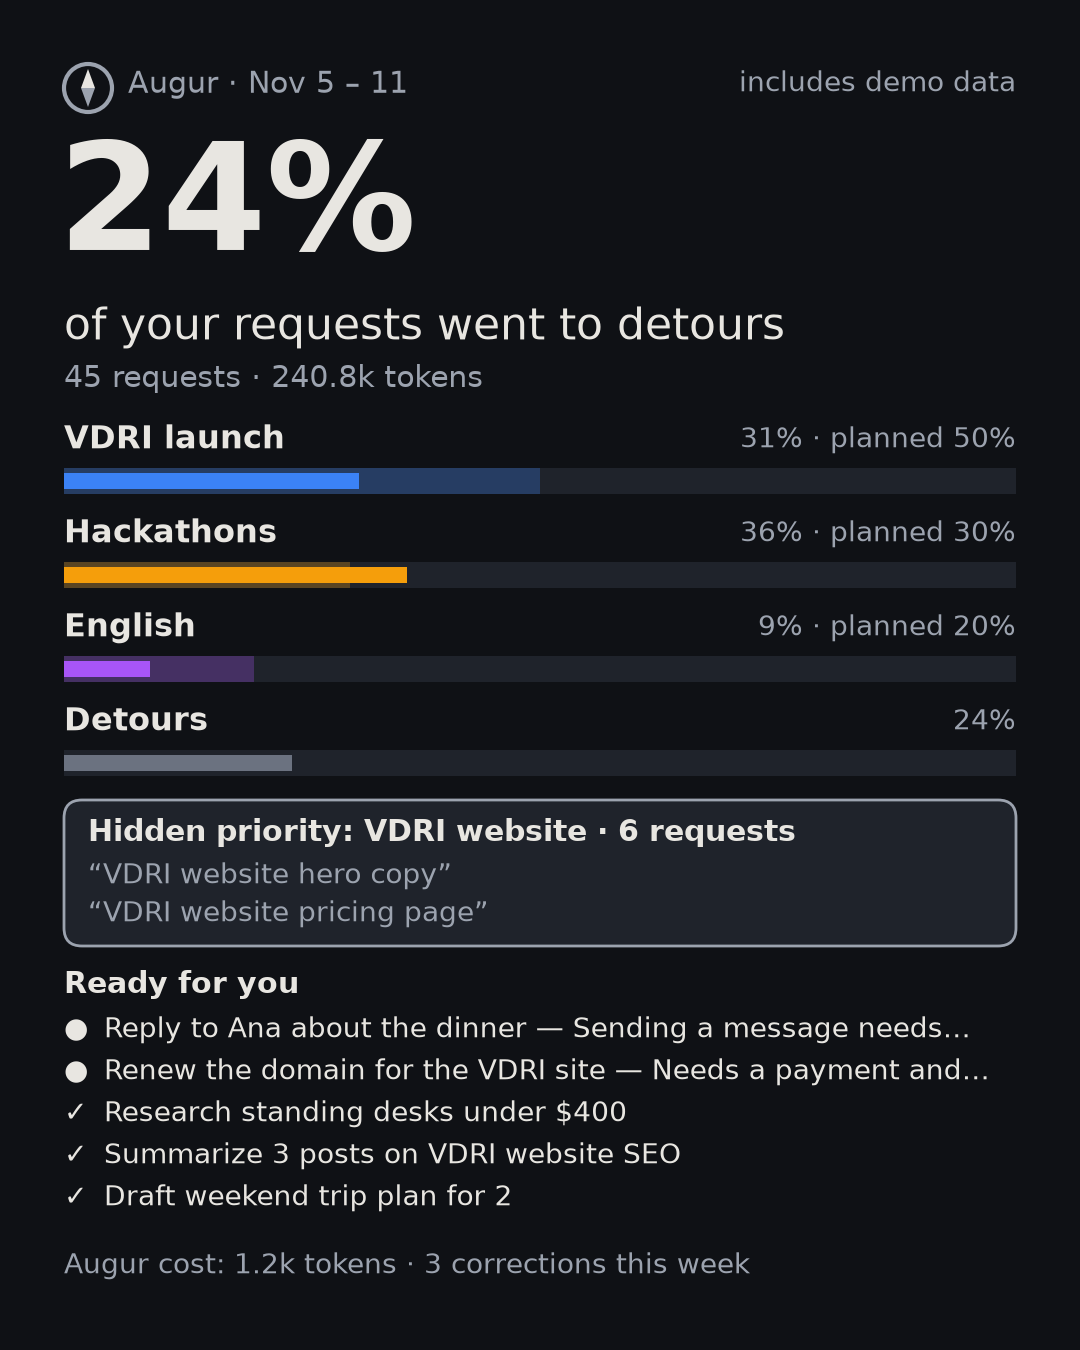
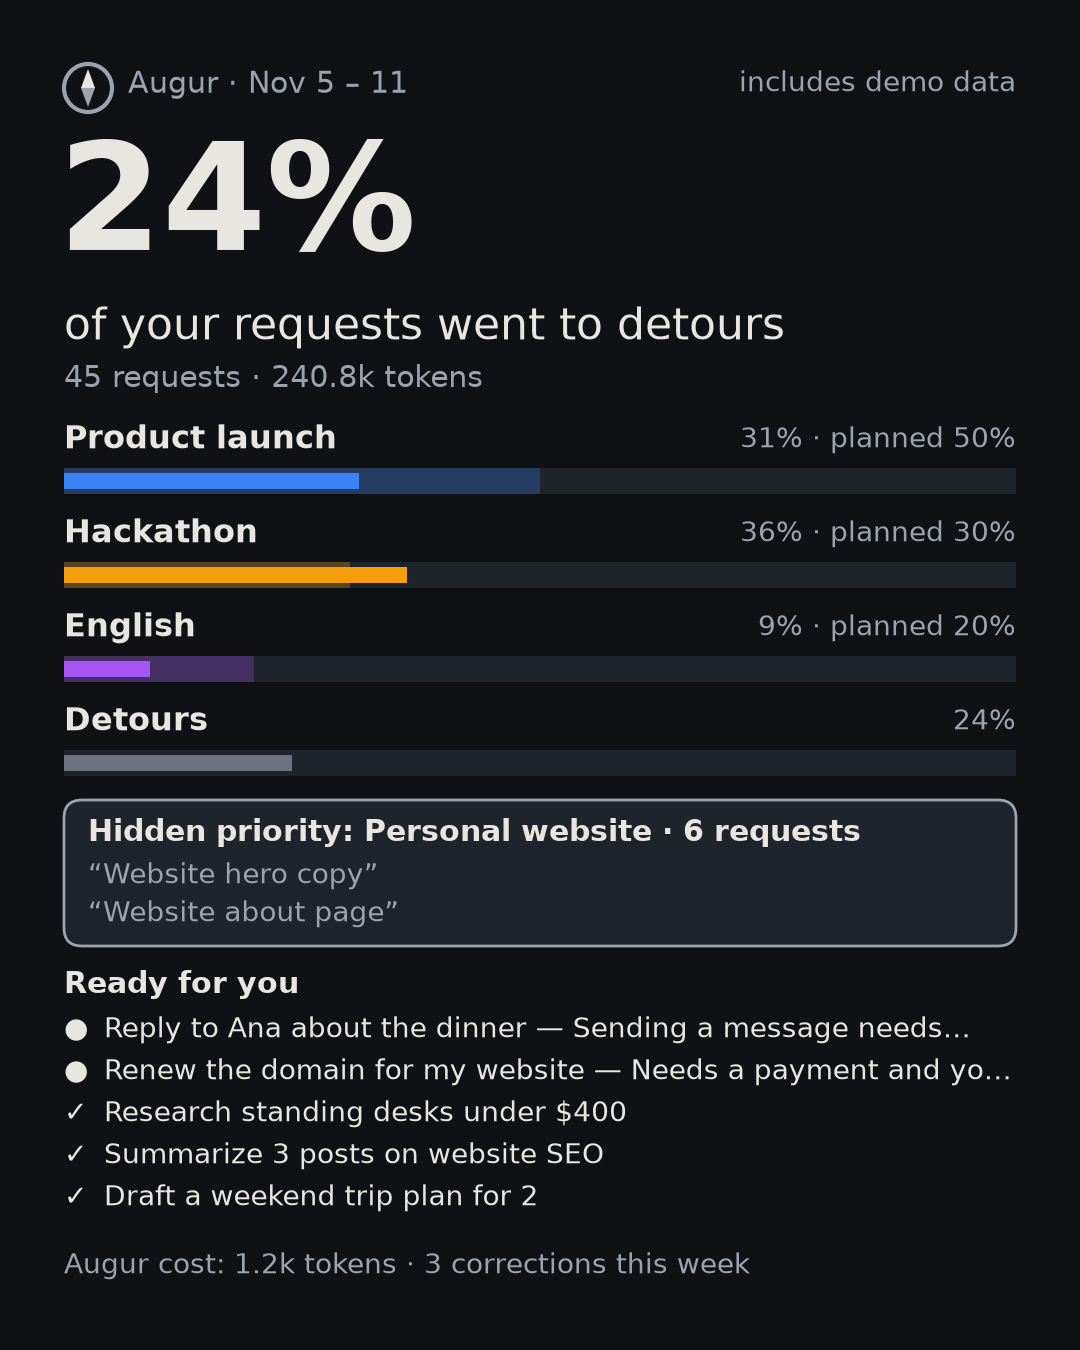
Use generic demo names (Product launch, Hackathon, English, Personal website)
Claude-Session: https://claude.ai/code/session_01Uun7kfw5yCHjWELwmmLRdR

diff --git a/tests/test_store_commands.py b/tests/test_store_commands.py
@@ -58,12 +58,12 @@ def test_secrets_are_redacted_before_storage(make_app):
 
 
 def test_parse_goals_variants():
-    assert [g["name"] for g in cmd_mod.parse_goals("launching VDRI, hackathons, English")] == [
-        "Launching VDRI", "Hackathons", "English"]
-    assert [g["name"] for g in cmd_mod.parse_goals("VDRI launch, hackathons and English")] == [
-        "VDRI launch", "Hackathons", "English"]
-    goals = cmd_mod.parse_goals('"VDRI launch: ship the beta" "Hackathons" "English"')
-    assert goals[0]["name"] == "VDRI launch" and "ship the beta" in goals[0]["description"]
+    assert [g["name"] for g in cmd_mod.parse_goals("launching the product, hackathon, Spanish")] == [
+        "Launching the product", "Hackathon", "Spanish"]
+    assert [g["name"] for g in cmd_mod.parse_goals("Product launch, hackathons and English")] == [
+        "Product launch", "Hackathons", "English"]
+    goals = cmd_mod.parse_goals('"Product launch: ship the beta" "Hackathon" "English"')
+    assert goals[0]["name"] == "Product launch" and "ship the beta" in goals[0]["description"]
     assert cmd_mod.parse_goals("just one big thing") is None
     assert cmd_mod.parse_split("a, b, c 50/30/20") == ("a, b, c", [50, 30, 20])
     assert not cmd_mod.valid_split([50, 30, 30])
@@ -71,7 +71,7 @@ def test_parse_goals_variants():
 
 def test_goals_inline_with_split(make_app):
     app = make_app(goals=False)
-    out = Commands(app).augur('goals "VDRI launch" "Hackathons" "English" 50/30/20')
+    out = Commands(app).augur('goals "Product launch" "Hackathon" "English" 50/30/20')
     assert "Goals saved" in out
     assert [g["planned_pct"] for g in app.store.goals()] == [50, 30, 20]
     assert app.ctx.asked == []
@@ -80,25 +80,25 @@ def test_goals_inline_with_split(make_app):
 def test_goals_ask_split_with_buttons(make_app):
     app = make_app(goals=False)
     app.ctx.choices = ["40/40/20"]
-    out = Commands(app).augur("goals launching VDRI, hackathons, English")
+    out = Commands(app).augur("goals launching the product, hackathon, Spanish")
     assert "Goals saved" in out
     question, choices = app.ctx.asked[0]
-    assert "Launching VDRI" in question and len(choices) == 4
+    assert "Launching the product" in question and len(choices) == 4
     assert [g["planned_pct"] for g in app.store.goals()] == [40, 40, 20]
 
 
 def test_goals_cancel_or_no_buttons_saves_nothing(make_app):
     app = make_app(goals=False)
-    out = Commands(app).augur("goals launching VDRI, hackathons, English")
+    out = Commands(app).augur("goals launching the product, hackathon, Spanish")
     assert "not saved" in out and not app.store.has_goals()
 
 
 def test_goals_free_text_uses_model_extraction(make_app):
-    extracted = {"goals": [{"name": "VDRI Launch", "description": "launch"},
+    extracted = {"goals": [{"name": "Product Launch", "description": "launch"},
                            {"name": "Hackathon", "description": "plugin"},
                            {"name": "English", "description": "practice"}]}
     app = make_app(lambda kw: extracted, goals=False)
-    out = Commands(app).augur("goals this week I mostly want to launch VDRI then the hackathon plus english 50/30/20")
+    out = Commands(app).augur("goals this week I mostly want to launch the product then the hackathon plus spanish 50/30/20")
     assert "Goals saved" in out
     assert app.ctx.llm.calls[-1]["task"] == "augur_classifier"
 
@@ -113,7 +113,7 @@ def test_panel_onboarding_then_panel(make_app):
     assert "/augur goals" in Commands(app).augur("")
     demo.load(app.store, app.clock())
     text = Commands(app).augur("", platform="telegram")
-    assert "VDRI launch" in text and "24%" in text and "\x1b[" not in text
+    assert "Product launch" in text and "24%" in text and "\x1b[" not in text
     block = text.split("```")[1].strip().splitlines()
     assert len(block) == 4 and max(len(line) for line in block) <= 36  # fits a phone in monospace
     assert "Hidden priority" in text
@@ -129,17 +129,17 @@ def test_fix_records_correction_used_in_next_prompt(make_app):
     turn(app, "polish the docs page for my Hermes plugin", turn_id="a")
     app.ctx.choices = ["2"]
     out = Commands(app).augur("fix", session_id="s1")
-    assert "Hackathons" in out
+    assert "Hackathon" in out
     assert app.store.get_turn(1)["goal"] == 2
     turn(app, "polish the README for my Hermes plugin", turn_id="b")
     prompt = app.ctx.llm.calls[-1]["input"][0]["text"]
-    assert '"Tune Hermes plugin docs" → 2 (Hackathons)' in prompt
+    assert '"Tune Hermes plugin docs" → 2 (Hackathon)' in prompt
 
 
 def test_fix_inline_and_nothing_to_fix(make_app):
     app = make_app(lambda kw: on_goal(1))
     assert "Nothing to fix" in Commands(app).augur("fix")
-    turn(app, "draft the pilot pricing tiers for VDRI")
+    turn(app, "draft the pilot pricing tiers for the launch")
     assert "Detour" in Commands(app).augur("fix detour")
     assert app.store.get_turn(1)["goal"] == 0
 
@@ -158,7 +158,7 @@ def test_pause_and_resume(make_app):
 
 def test_demo_load_and_clear_keeps_real_data(make_app):
     app = make_app(lambda kw: on_goal(1))
-    turn(app, "draft the pilot pricing tiers for VDRI")
+    turn(app, "draft the pilot pricing tiers for the launch")
     out = Commands(app).augur("demo")
     assert "45 requests" in out and "kept" in out
     assert app.ctx.llm.calls.__len__() == 1  # demo made no model call
@@ -219,9 +219,9 @@ def test_status_rpc_and_emit(make_app):
     assert app.rpc_status({}, session_id="s1")["on_goals_pct"] is None  # nothing counted yet: no "0%"
     turn(app, "write the pytest tests for the classifier")
     status = app.rpc_status({"session_id": "s1"})
-    assert status["current_goal"] == "Hackathons" and status["on_goals_pct"] == 100
+    assert status["current_goal"] == "Hackathon" and status["on_goals_pct"] == 100
     sid, event, payload = app.ctx.emitted[-1]
-    assert (sid, event) == ("s1", "status.changed") and payload["current_goal"] == "Hackathons"
+    assert (sid, event) == ("s1", "status.changed") and payload["current_goal"] == "Hackathon"
     import json
 
     json.dumps(status)  # JSON-safe for the RPC wire

diff --git a/demo.py b/demo.py
@@ -1,6 +1,6 @@
 """A fixed, deterministic sample week. No model calls; every row is marked ``demo``.
 
-Shapes match the README: 45 requests (31% VDRI launch, 36% Hackathons,
+Shapes match the README: 45 requests (31% Product launch, 36% Hackathon,
 9% English, 24% detours), 5 parked items, 3 corrections, a hidden priority.
 """
 
@@ -12,57 +12,57 @@ from . import insight
 from .store import Store, iso
 
 GOALS = [
-    {"name": "VDRI launch", "description": "VDRI launch: pilot customers, pricing and the investor deck", "planned_pct": 50},
-    {"name": "Hackathons", "description": "Hackathons: build and submit the Hermes plugin", "planned_pct": 30},
+    {"name": "Product launch", "description": "Product launch: first 100 users, pricing and the investor deck", "planned_pct": 50},
+    {"name": "Hackathon", "description": "Hackathon: build and submit the Hermes plugin", "planned_pct": 30},
     {"name": "English", "description": "English: daily speaking and writing practice", "planned_pct": 20},
 ]
 
 # (goal, summary, tokens); 0 = detour
 REQUESTS: list[tuple[int, str, int]] = [
-    (1, "Draft pilot pricing tiers", 8200), (2, "Plugin hook signatures", 6400),
-    (1, "Investor deck: market slide", 9100), (0, "VDRI website hero copy", 7300),
-    (2, "Write classifier tests", 11800), (1, "Pilot customer email", 4100),
-    (3, "Fix grammar in my pitch", 2600), (0, "VDRI website color palette", 5200),
+    (1, "Draft launch pricing tiers", 8200), (2, "Plugin hook signatures", 6400),
+    (1, "Investor deck: market slide", 9100), (0, "Website hero copy", 7300),
+    (2, "Write classifier tests", 11800), (1, "Invite email for beta users", 4100),
+    (3, "Fix grammar in my pitch", 2600), (0, "Website color palette", 5200),
     (2, "Debug cron blueprint", 9900), (1, "Competitor pricing table", 7700),
     (2, "README structure", 5300), (0, "Compare standing desks", 3900),
     (1, "Deck: traction slide", 6800), (2, "Telegram buttons test", 4700),
-    (0, "VDRI website footer links", 3100), (1, "Pilot onboarding checklist", 5600),
-    (2, "Precision eval script", 12400), (3, "Practice: pitch out loud", 2200),
+    (0, "Website footer links", 3100), (1, "Onboarding checklist", 5600),
+    (2, "Precision eval script", 12400), (3, "Practice the pitch out loud", 2200),
     (0, "Weekend trip ideas", 2800), (1, "Cap table question", 4300),
-    (2, "PNG report layout", 10300), (0, "VDRI website SEO meta tags", 4400),
-    (1, "Pilot contract template", 7900), (2, "Video script beats", 3800),
+    (2, "PNG report layout", 10300), (0, "Website SEO meta tags", 4400),
+    (1, "Beta terms of service", 7900), (2, "Video script beats", 3800),
     (0, "Recipe for dinner party", 1900), (2, "Catalog YAML fields", 3300),
     (1, "Deck: team slide", 5100), (2, "Guard path tests", 6900),
-    (0, "VDRI website pricing page", 6100), (1, "Follow-up to pilot lead", 3600),
+    (0, "Website about page", 6100), (1, "Follow-up to a beta lead", 3600),
     (2, "Desktop chip API", 5800), (3, "Rewrite email in English", 2400),
     (0, "Fantasy football lineup", 1700), (2, "CI workflow", 4100),
-    (1, "Pilot feedback summary", 5400), (2, "Onboarding copy", 2900),
-    (0, "VDRI website blog post", 8800), (1, "Unit economics sheet", 6600),
+    (1, "Beta feedback summary", 5400), (2, "Onboarding copy", 2900),
+    (0, "Website blog post", 8800), (1, "Unit economics sheet", 6600),
     (2, "Fix flaky test", 4500), (3, "Phrasal verbs quiz", 1800),
     (0, "Laptop battery tips", 1500), (2, "Release notes", 2700),
     (1, "Deck: ask slide", 4900), (2, "Judge feedback pass", 7200),
-    (1, "Pilot kickoff agenda", 3800),
+    (1, "Launch day checklist", 3800),
 ]
 
 PARKED = [
     "Research standing desks under $400",
-    "Summarize 3 posts on VDRI website SEO",
-    "Draft weekend trip plan for 2",
+    "Summarize 3 posts on website SEO",
+    "Draft a weekend trip plan for 2",
     "Reply to Ana about the dinner",
-    "Renew the domain for the VDRI site",
+    "Renew the domain for my website",
 ]
 
 CORRECTIONS = [
-    ("Pilot contract template", 1),
+    ("Beta terms of service", 1),
     ("Video script beats", 2),
     ("Laptop battery tips", 0),
 ]
 
 HIDDEN = {
-    "theme": "VDRI website",
+    "theme": "Personal website",
     "count": 6,
-    "examples": ["VDRI website hero copy", "VDRI website pricing page"],
-    "suggested_goal": "Ship the VDRI website",
+    "examples": ["Website hero copy", "Website about page"],
+    "suggested_goal": "Ship the personal website",
 }
 
 
@@ -78,7 +78,7 @@ def load(store: Store, now: datetime) -> dict[str, int]:
         ts = start + step * i
         store.insert_turn(
             ts=ts, session_id="demo", summary=summary, source="demo", goal=goal, confidence=0.9, tokens=tokens,
-            decision="do_now" if goal == 0 and "website" in summary else None,
+            decision="do_now" if goal == 0 and "Website" in summary else None,
         )
     for i, summary in enumerate(PARKED):
         store.queue_add(summary, start + timedelta(days=1 + i), source="demo")

diff --git a/tests/test_report.py b/tests/test_report.py
@@ -37,7 +37,7 @@ def test_png_is_valid_portrait_and_small(make_app, clock):
 
     assert os.path.getsize(path) < 1_000_000
     assert "24%" in out["caption"] and "1 of 3" in out["caption"]
-    assert "VDRI website" in out["caption"]
+    assert "Personal website" in out["caption"]
 
 
 def test_text_fallback_without_matplotlib(make_app, clock, monkeypatch):
@@ -53,7 +53,7 @@ def test_text_fallback_without_matplotlib(make_app, clock, monkeypatch):
     monkeypatch.setattr(builtins, "__import__", no_mpl)
     out = json.loads(make_handlers(app)["augur_report"]({}))
     assert out["ok"] and "path" not in out
-    assert "detours" in out["text"] and "VDRI launch" in out["text"]
+    assert "detours" in out["text"] and "Product launch" in out["text"]
 
 
 def test_stale_parked_items_are_dropped(make_app, clock):
@@ -67,19 +67,19 @@ def test_stale_parked_items_are_dropped(make_app, clock):
 
 def _detours(app, clock, n):
     for i in range(n):
-        app.store.insert_turn(ts=clock() - timedelta(hours=i + 1), session_id="s", summary=f"VDRI website task {i}",
+        app.store.insert_turn(ts=clock() - timedelta(hours=i + 1), session_id="s", summary=f"Personal website task {i}",
                               goal=0, confidence=0.9)
 
 
 def test_hidden_priority_needs_five(make_app, clock):
-    answer = {"theme": "VDRI website", "count": 5, "examples": ["hero copy", "SEO"], "suggested_goal": "Ship it"}
+    answer = {"theme": "Personal website", "count": 5, "examples": ["hero copy", "SEO"], "suggested_goal": "Ship it"}
     app = make_app(lambda kw: answer)
     _detours(app, clock, 4)
     assert app.build_report()["caption"].count("Hidden priority") == 0
     assert app.ctx.llm.calls == []  # fewer than 5 detours: no model call at all
     _detours(app, clock, 1)
     out = app.build_report()
-    assert "Hidden priority spotted: \"VDRI website\"" in out["caption"]
+    assert "Hidden priority spotted: \"Personal website\"" in out["caption"]
     assert app.ctx.llm.calls[-1]["task"] == "augur_insight"
     calls = len(app.ctx.llm.calls)
     app.build_report()
@@ -104,7 +104,7 @@ def test_metering_normalises_usage():
 
 def test_tokens_land_on_the_turn_and_self_cost_is_recorded(make_app):
     app = make_app()
-    turn(app, "draft the pilot pricing tiers for VDRI", turn_id="t9")
+    turn(app, "draft the pilot pricing tiers for the launch", turn_id="t9")
     app.on_post_api_request(session_id="s1", turn_id="t9", usage={"prompt_tokens": 1000, "completion_tokens": 200})
     app.on_post_api_request(session_id="s1", turn_id="t9", usage={"input_tokens": 300, "output_tokens": 50})
     assert app.store.get_turn(1)["tokens"] == 1550

diff --git a/tests/test_regressions.py b/tests/test_regressions.py
@@ -34,14 +34,14 @@ def test_no_user_text_is_stored_when_labeling_fails(make_app):
 
 def test_model_summary_is_what_gets_stored(make_app):
     app = make_app(lambda kw: on_goal(1, summary="Pilot pricing tiers"))
-    turn(app, "Draft three pricing tiers for the VDRI pilot, with a discount for Acme Corp")
+    turn(app, "Draft three pricing tiers for the product launch, with a discount for Acme Corp")
     assert app.store.get_turn(1)["summary60"] == "Pilot pricing tiers"
 
 
 def test_forgotten_demo_expires_and_pinned_insight_only_with_demo(make_app, clock):
     app = make_app(lambda kw: on_goal(1))
     demo.load(app.store, clock())
-    assert app.week().hidden["theme"] == "VDRI website"
+    assert app.week().hidden["theme"] == "Personal website"
     clock.advance(days=8)
     stats = app.week()
     assert stats.hidden is None and not stats.has_demo
@@ -79,7 +79,7 @@ def test_acknowledgements_are_not_counted_and_inherited_rows_do_not_build_streak
 
 def test_fix_never_shows_another_sessions_request(make_app):
     app = make_app(lambda kw: on_goal(1, summary="Session A secret plan"))
-    turn(app, "draft the pilot pricing tiers for VDRI", session="A")
+    turn(app, "draft the pilot pricing tiers for the launch", session="A")
     out = Commands(app).augur("fix", session_id="B")
     assert "Session A" not in out and "Nothing to fix" in out
 
@@ -97,7 +97,7 @@ def test_unattended_surfaces_are_not_labeled(make_app, monkeypatch):
 def test_panel_warns_when_labels_are_slow(make_app):
     app = make_app(lambda kw: on_goal(1), delay=0.3, budget=0.05)
     for i in range(10):
-        turn(app, f"draft the pilot pricing tiers for VDRI v{i}", turn_id=f"t{i}")
+        turn(app, f"draft the pilot pricing tiers for the launch v{i}", turn_id=f"t{i}")
     bad, total = app.health()
     assert (bad, total) == (10, 10)
     assert "Pin a fast model" in Commands(app).augur("", platform="telegram")
@@ -117,7 +117,7 @@ def test_closed_store_never_reopens(make_app):
 
     with pytest.raises(RuntimeError):
         app.store.goals()
-    assert turn(app, "draft the pilot pricing tiers for VDRI") is None  # silent, no crash
+    assert turn(app, "draft the pilot pricing tiers for the launch") is None  # silent, no crash
 
 
 def test_caption_plural_and_eval_cost_not_counted(make_app, clock):

diff --git a/tests/test_nudge.py b/tests/test_nudge.py
@@ -17,7 +17,7 @@ def test_second_detour_in_a_row_nudges_without_blocking(make_app):
     out = turn(app, "and a playlist for that dinner party", turn_id="b")
     assert set(out) == {"context"}  # never {"action": "block"}
     assert "Do it now" in out["context"] and "Park it" in out["context"]
-    assert "Hackathons" in out["context"]  # closest goal named
+    assert "Hackathon" in out["context"]  # closest goal named
     assert "augur_park" in out["context"]
     assert app.store.get_turn(2)["nudged"] == 1
 
@@ -40,7 +40,7 @@ def test_goal_between_detours_breaks_the_streak(make_app):
     answers = iter([detour(), on_goal(1), detour()])
     app = make_app(lambda kw: next(answers))
     turn(app, "find a good recipe for a dinner party", turn_id="a")
-    turn(app, "draft the pilot pricing tiers for VDRI", turn_id="b")
+    turn(app, "draft the pilot pricing tiers for the launch", turn_id="b")
     assert turn(app, "and a playlist for that dinner party", turn_id="c") is None
 
 
@@ -146,7 +146,7 @@ def test_late_label_appends_a_note_instead_of_waiting(make_app):
     assert time.monotonic() - started < 0.3
     app.classifier.wait_idle(5)
     out = app.on_transform_llm_output(response_text="Here is your playlist.", session_id="s1", turn_id="b")
-    assert out.startswith("Here is your playlist.") and "🧭" in out and "Hackathons" in out
+    assert out.startswith("Here is your playlist.") and "🧭" in out and "Hackathon" in out
     assert app.on_transform_llm_output(response_text="again", session_id="s1", turn_id="b") is None  # once
     row = app.store.get_turn(2)
     assert row["nudged"] == 1 and row["decision"] == "do_now"

diff --git a/tests/conftest.py b/tests/conftest.py
@@ -154,9 +154,9 @@ class Clock:
 
 
 GOALS = [
-    {"name": "VDRI launch", "description": "pilot customers, pricing and the investor deck", "planned_pct": 50},
-    {"name": "Hackathons", "description": "build and submit the Hermes plugin", "planned_pct": 30},
-    {"name": "English", "description": "speaking and writing practice", "planned_pct": 20},
+    {"name": "Product launch", "description": "pilot customers, pricing and the investor deck", "planned_pct": 50},
+    {"name": "Hackathon", "description": "build and submit the Hermes plugin", "planned_pct": 30},
+    {"name": "Spanish", "description": "speaking and writing practice", "planned_pct": 20},
 ]
 
 

diff --git a/tests/test_classifier.py b/tests/test_classifier.py
@@ -105,7 +105,7 @@ def test_prompt_uses_blocks_task_and_redacts(make_app):
     text = call["input"][0]["text"]
     assert fake_key not in text
     assert "earlier message about pricing" in text
-    assert "VDRI launch" in text
+    assert "Product launch" in text
 
 
 def test_skips_slash_commands_subagents_cron_and_missing_goals(make_app):

diff --git a/panel.py b/panel.py
@@ -19,7 +19,7 @@ FULL, EMPTY = "▇", "░"
 
 
 COMPACT_BAR = 10
-COMPACT_NAME = 12
+COMPACT_NAME = 14
 
 
 def _bar(pct: int, width: int = BAR_WIDTH) -> str:

diff --git a/README.md b/README.md
@@ -26,15 +26,15 @@ An agent that can do anything makes it easy to do everything. One quick question
 ```
 🧭 Augur · Nov 5 – 11  (includes demo data)
 
-  VDRI launch  ▇▇▇▇▇▇░░░░░░░░░░░░░░   31% of 50% planned
-  Hackathons   ▇▇▇▇▇▇▇░░░░░░░░░░░░░   36% of 30% planned
-  English      ▇▇░░░░░░░░░░░░░░░░░░    9% of 20% planned
-  Detours      ▇▇▇▇▇░░░░░░░░░░░░░░░   24%
+  Product launch  ▇▇▇▇▇▇░░░░░░░░░░░░░░   31% of 50% planned
+  Hackathon       ▇▇▇▇▇▇▇░░░░░░░░░░░░░   36% of 30% planned
+  English         ▇▇░░░░░░░░░░░░░░░░░░    9% of 20% planned
+  Detours         ▇▇▇▇▇░░░░░░░░░░░░░░░   24%
 
   45 requests counted · 240.8k tokens
 
   Queue: 5 parked · no Friday run yet → /blueprint augur:friday
-  Hidden priority: "VDRI website" (6 requests) → /augur goals
+  Hidden priority: "Personal website" (6 requests) → /augur goals
   Augur itself used 1.2k tokens this week
 ```
 
